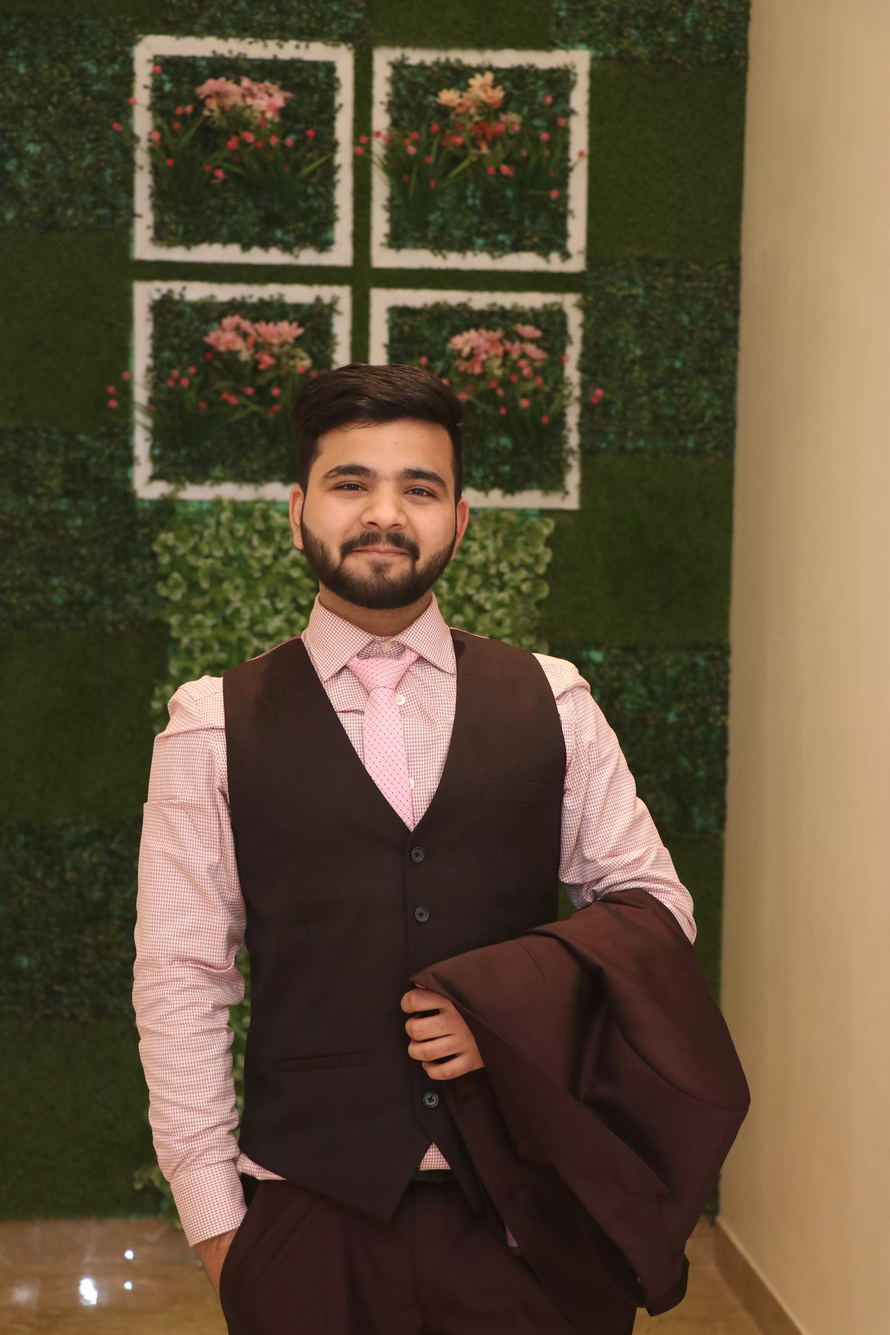
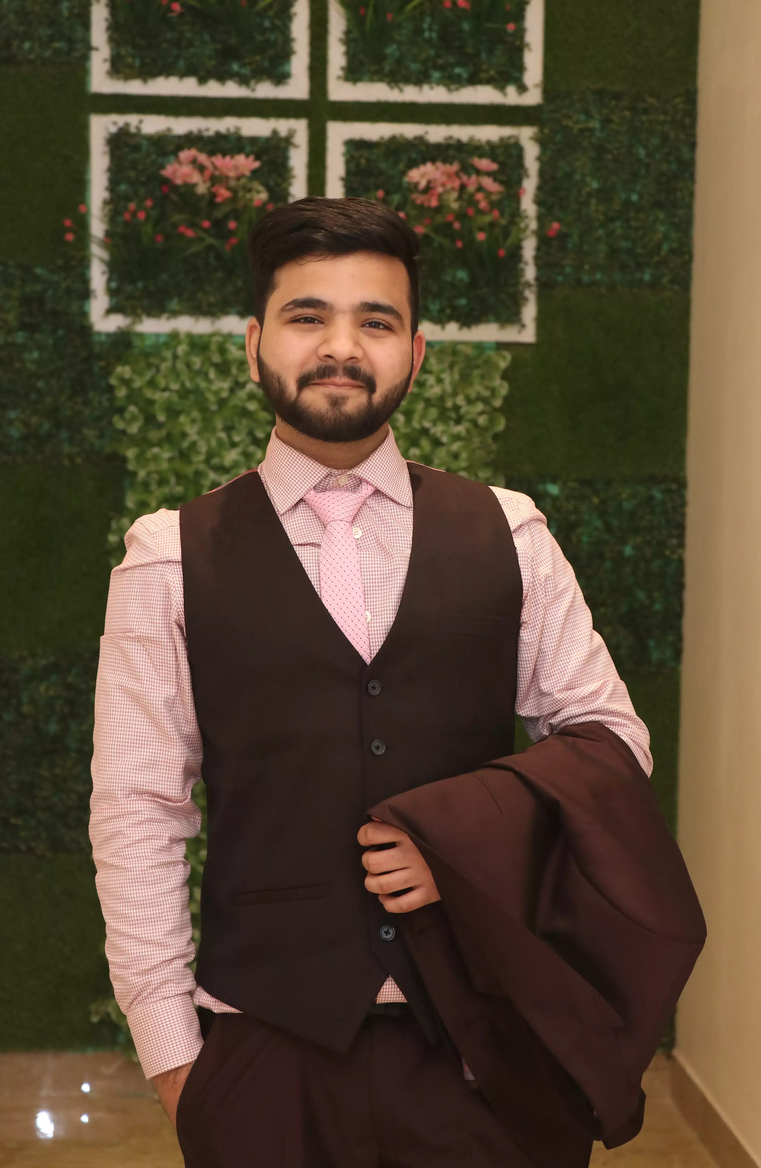
added typewriter effect, updated main image and some other minor changes

diff --git a/src/components/header/Header.jsx b/src/components/header/Header.jsx
@@ -4,13 +4,42 @@ import CallToAction from './CallToAction'
 import Me from '../../assets/me.webp'
 import {AiOutlineArrowRight} from 'react-icons/ai'
 import MySocials from './MySocials'
+import Typewriter from 'typewriter-effect';
 const Header = () => {
   return (
     <header>
       <div className="container header__container">
         <h5 className='kindOfGray' >Hello,I am</h5>
-        <h1 className='kindOfGray' >Anil Gulati</h1>
-        <h5 className='text-light'>Full Stack Developer</h5>
+        <h1 style={{color:'black'}}>Anil Gulati</h1>
+      
+<Typewriter 
+
+options={
+  {
+    autoStart:true,
+    loop:true,
+    wrapperClassName:'primaryColor',
+    cursorClassName:'primaryColor',
+    
+  }
+}
+  onInit={(typewriter) => {
+    typewriter.typeString('I am a Full Stack Developer! ')
+    .changeDeleteSpeed(10)
+    .pauseFor(200)
+    .deleteChars(24)
+    typewriter.typeString('an Android App Developer! ')
+    .pauseFor(200)
+    .deleteAll()
+    typewriter.typeString('2 Years of Experience! ')
+    .pauseFor(200)
+    .deleteAll()
+    typewriter.typeString('Always learning new things! ')
+    .pauseFor(200)
+    .deleteAll()
+    .start();
+  }}
+/>
         <CallToAction/>
         <MySocials/>
         <div className="ME">

diff --git a/src/index.css b/src/index.css
@@ -10,18 +10,11 @@
 }
 
 :root{
-    /* --background:#1f1f38;
-    --backgroundVariant:#2c2c6c;
-    --primary:#4db5ff;
-    --primaryVariant:rgba(77,181,255,0.4);
-    --lightWhite:rgba(255,255,255,0.6); */
     --background:#EAE7DC;
     --backgroundVariant:#D8C3A5;
     --primary:#E98074;
     --primaryVariant:#8E8D8A;
     --lightWhite:rgba(0,0,0,0.6);
-
-
     --transition:all 400ms ease;
     --width-sm:90%;
     --width-md:86%;
@@ -113,7 +106,9 @@ img{
 .kindOfGray{
 color: rgba(0, 0, 0, 0.7);
 }
-
+.primaryColor{
+    color:var(--primary)
+}
 @media screen and (max-width:1024px){
     .container{
         width: var(--width-md);

diff --git a/src/components/experience/experience.css b/src/components/experience/experience.css
@@ -24,6 +24,11 @@
     color: var(--primary);
 }
 
+.experience__details > svg{
+    width: 1.5em;
+    height: 1.2em;
+    color: blue;
+}
 .experience__content{
     display: grid;
     grid-template-columns: 1fr 1fr;
@@ -49,10 +54,6 @@
 .skills{
     width: 200%;
     /* margin-left: 10%; */
-}
-
-.experience__details svg{
-    color: blue;
 }
 
 @media screen and (max-width:1024px) {
